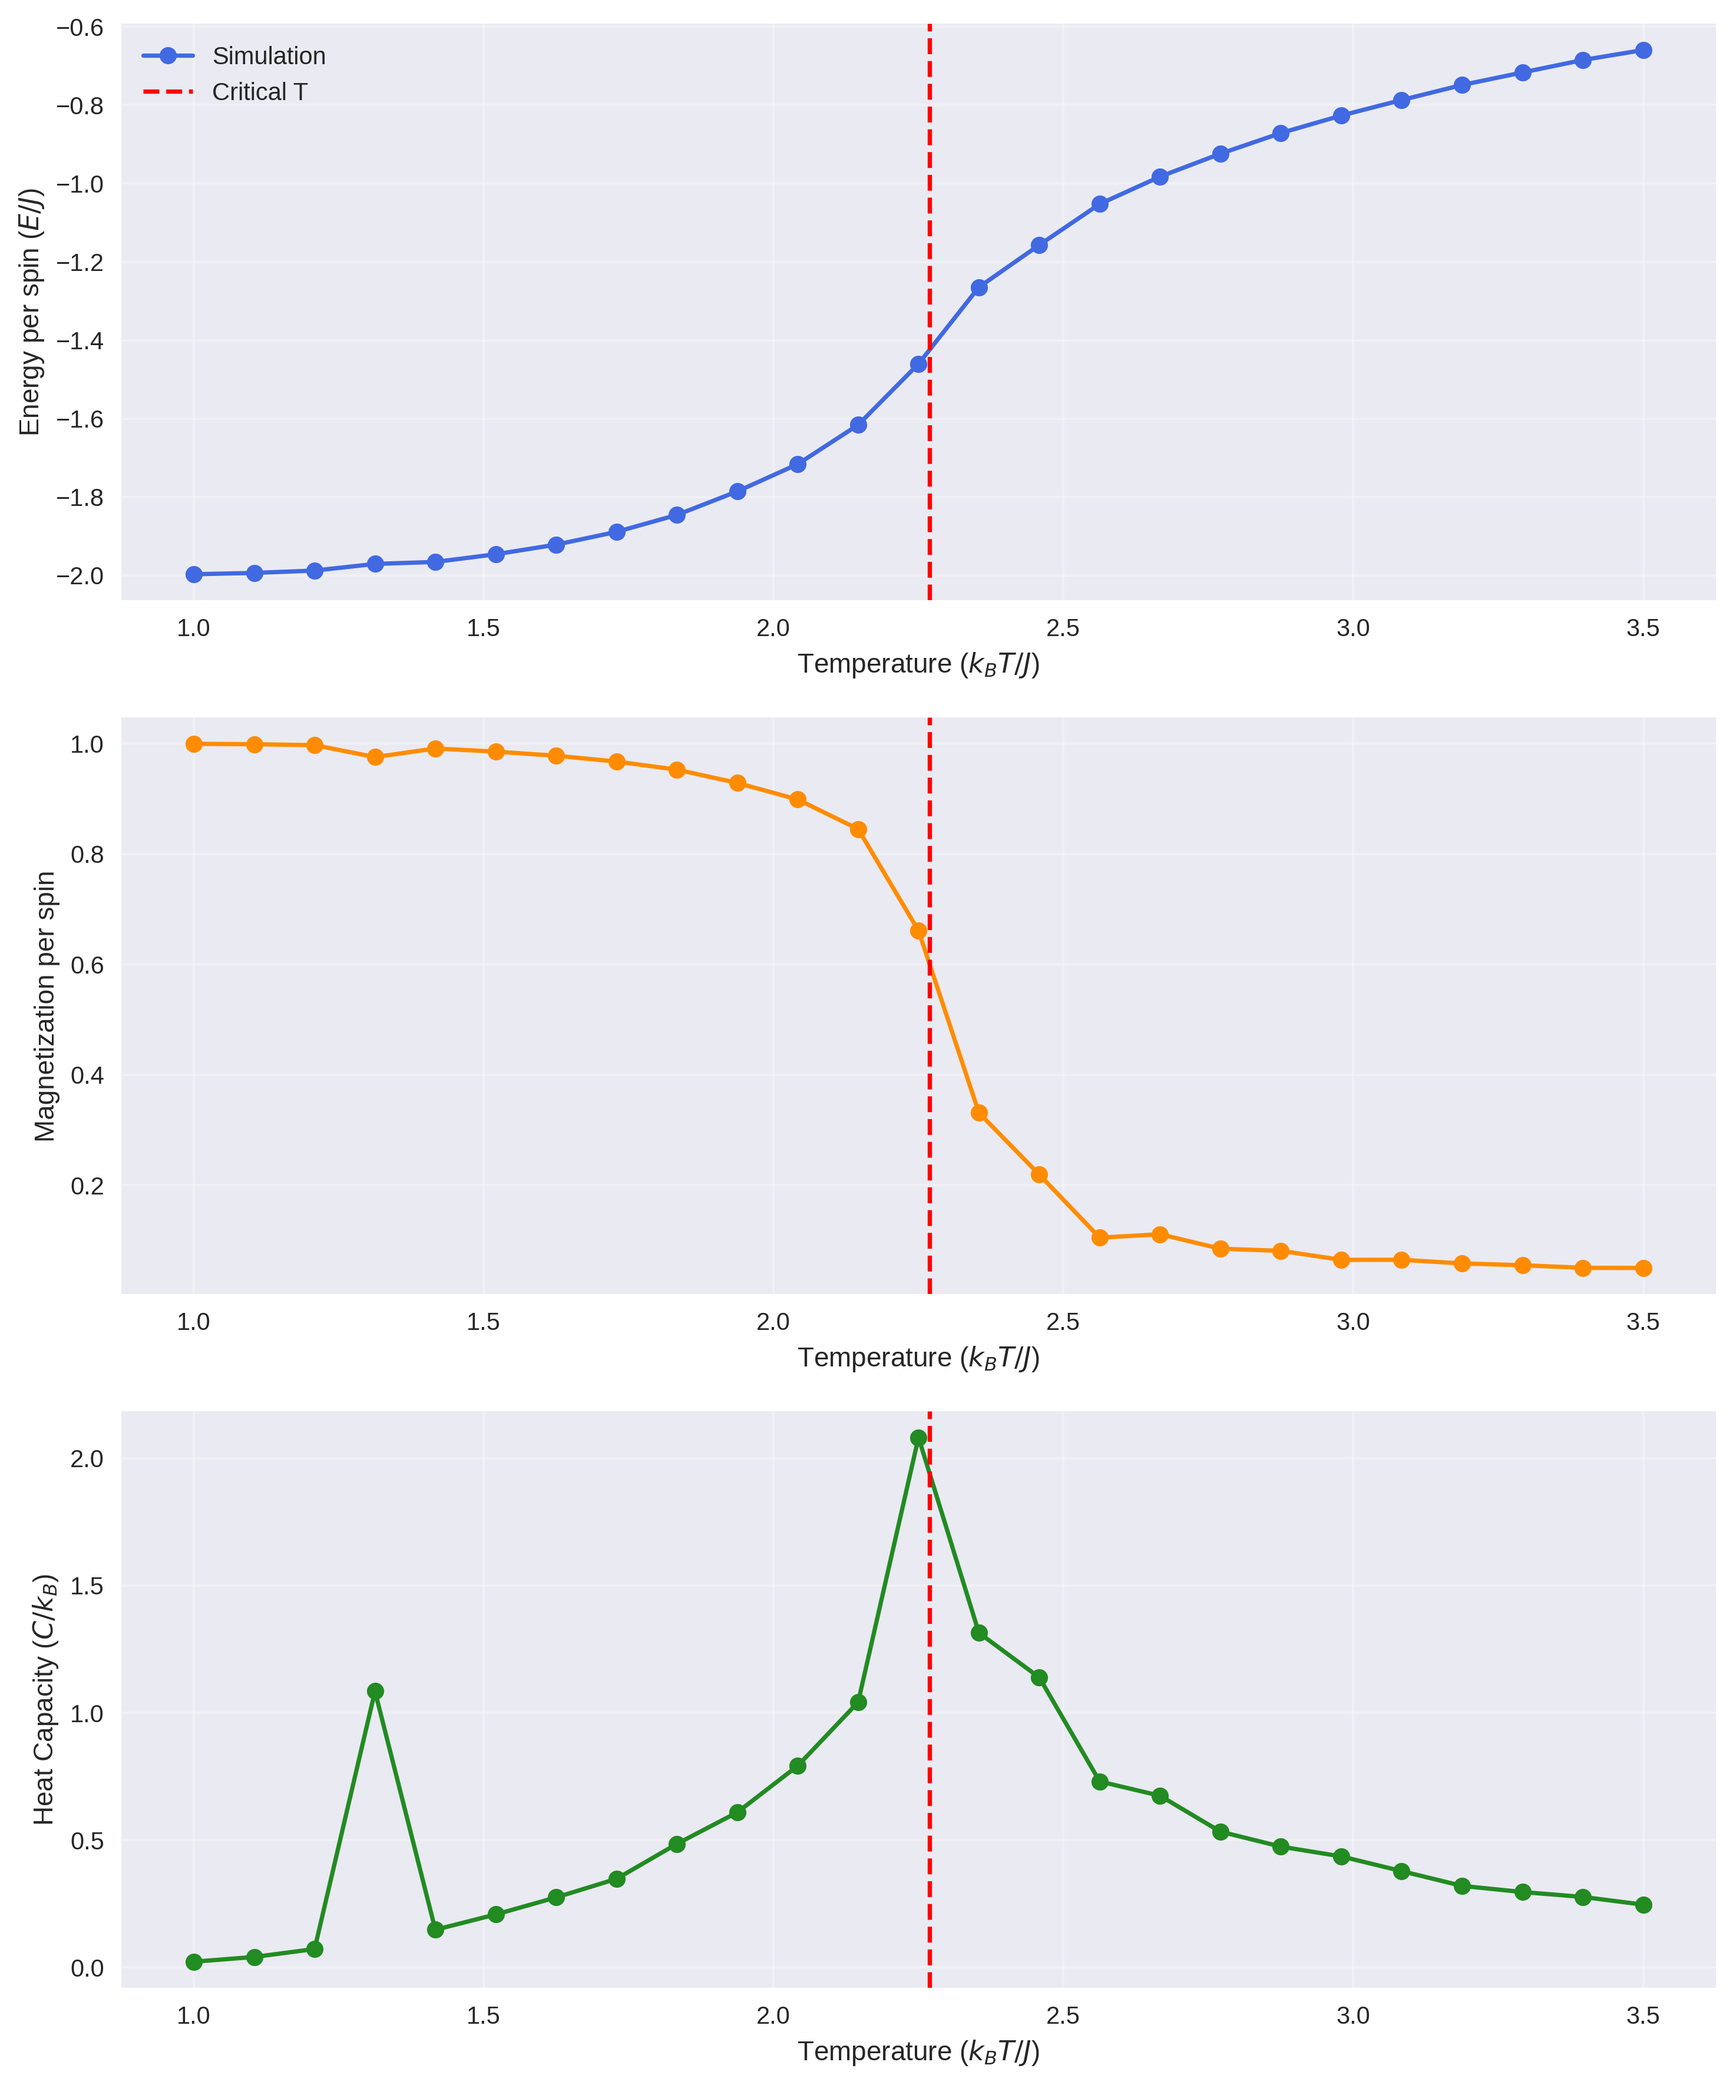
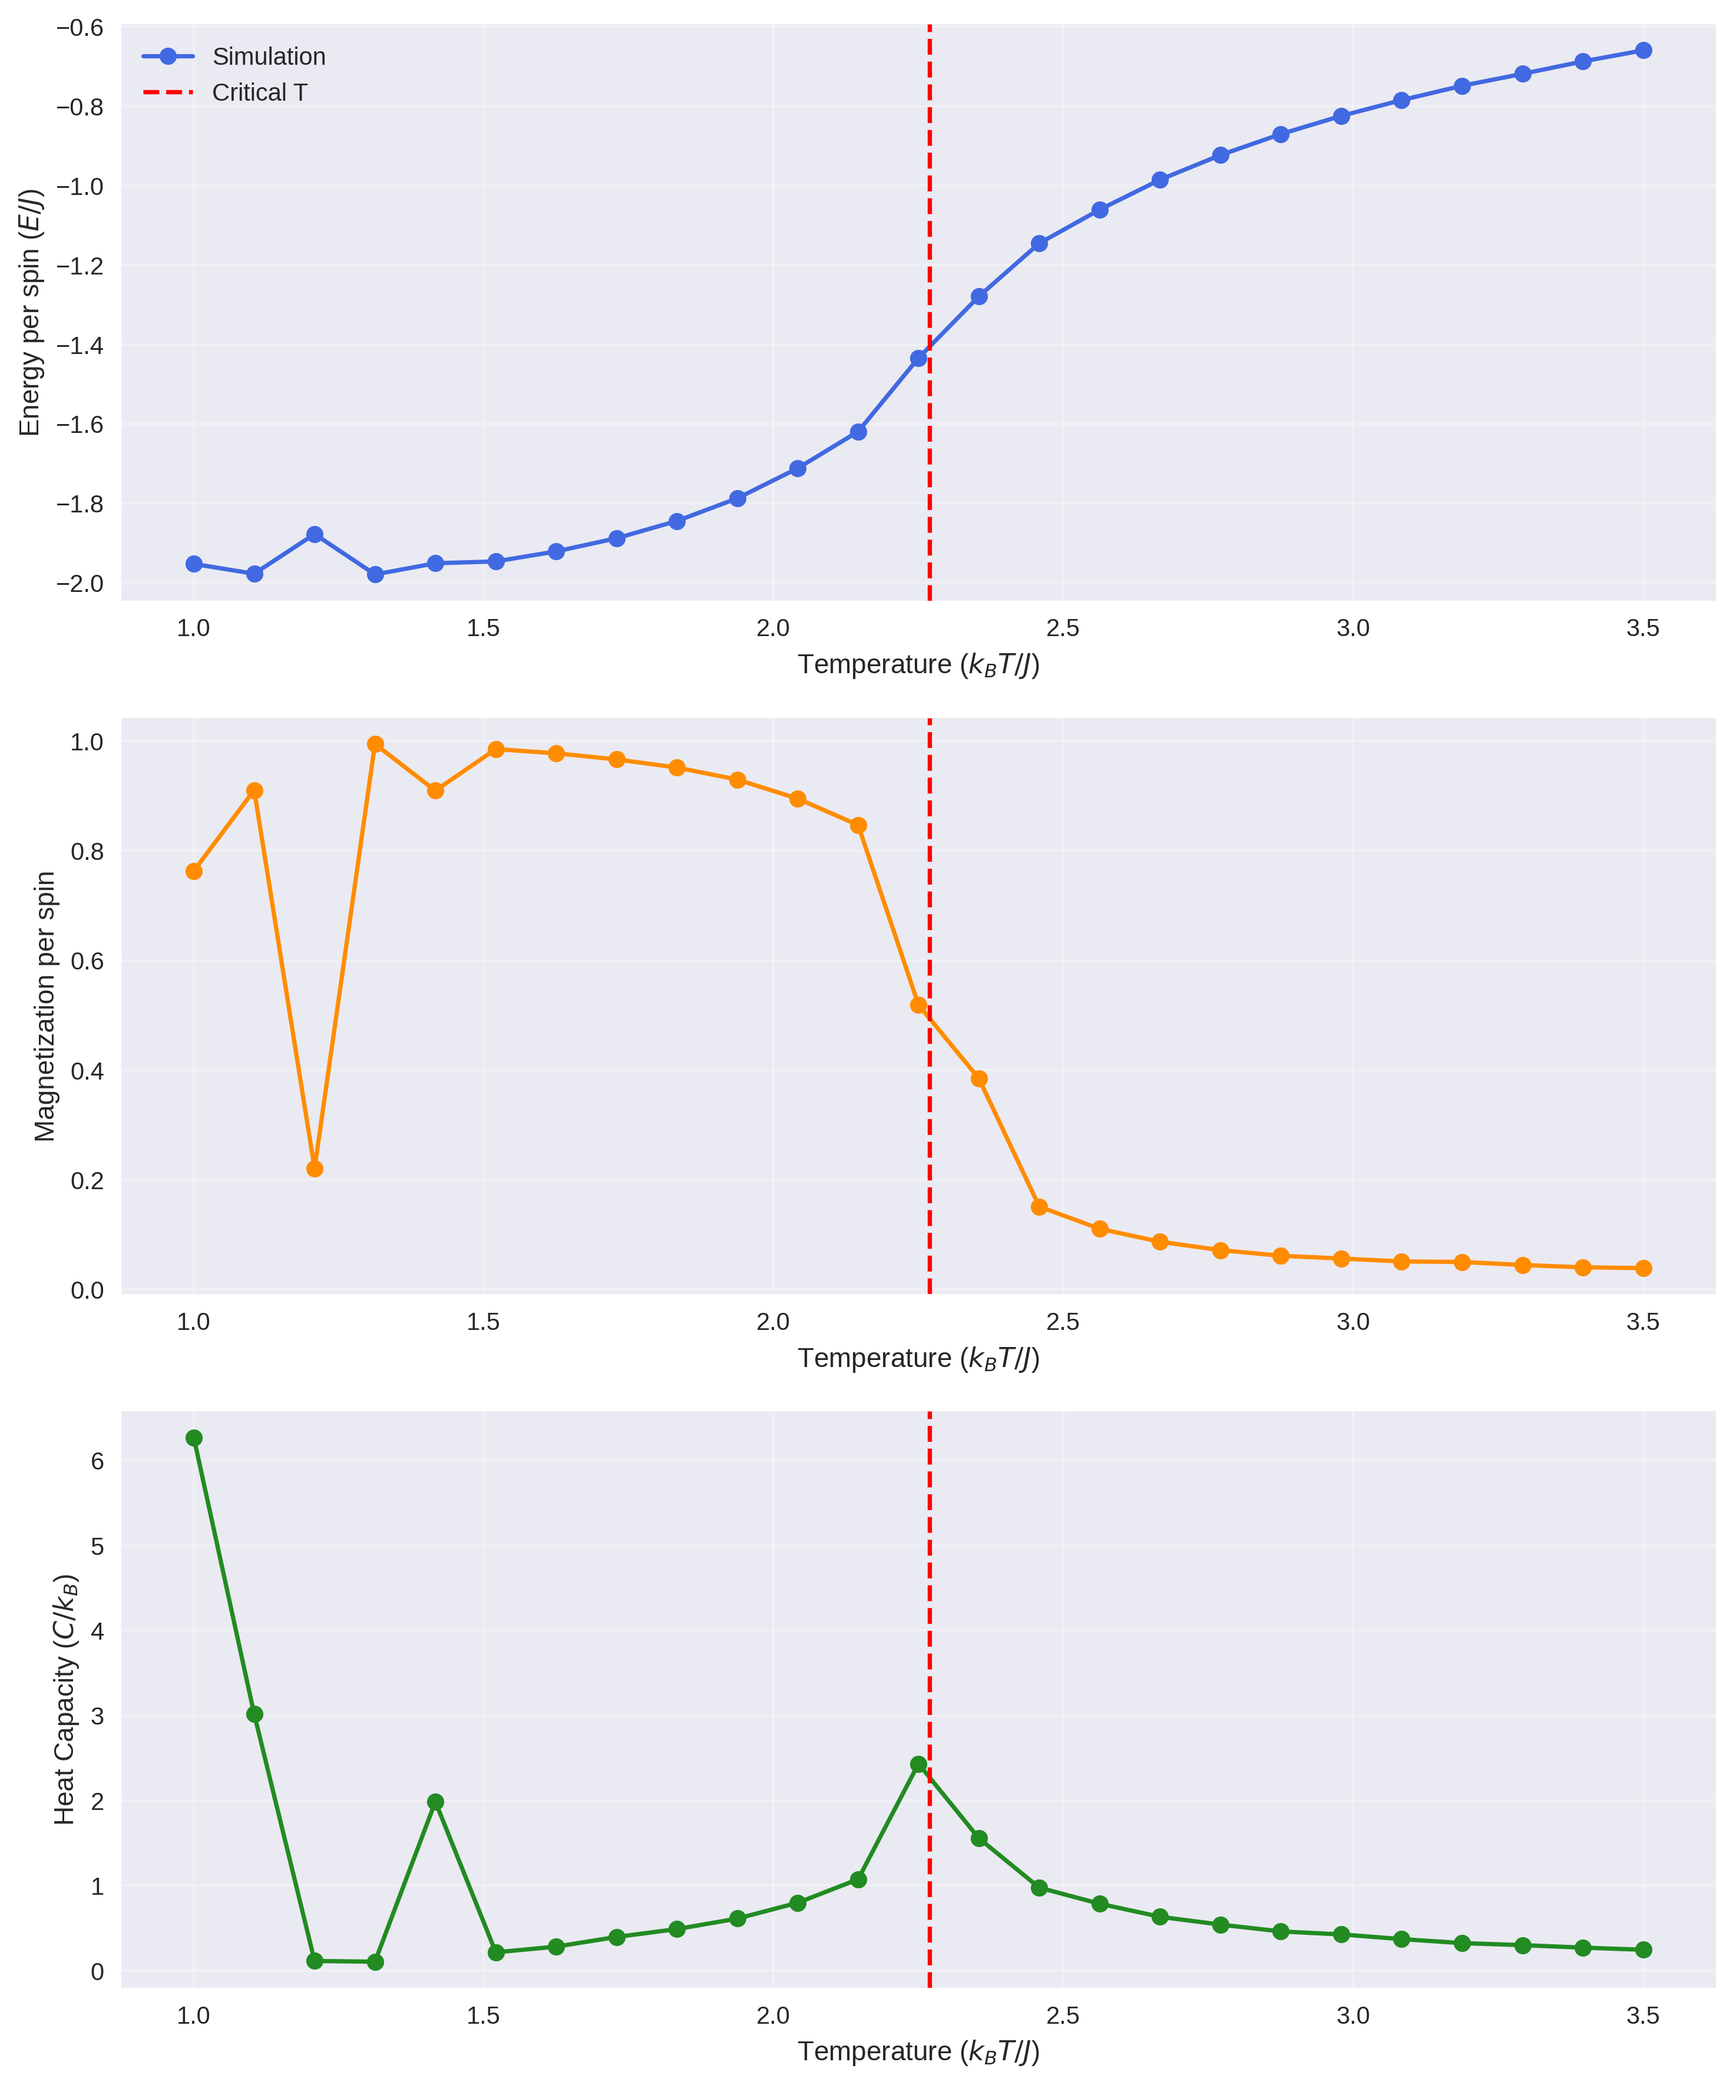
V.1.1

diff --git a/Ising_Model.py b/Ising_Model.py
@@ -24,6 +24,7 @@ class IsingModel2D:
         self.h = h
         # Inicialización aleatoria de espines (+1 o -1)
         self.spins = np.random.choice([-1, 1], size=(L, L)).astype(np.int8)  # int8 para ahorrar memoria
+        self.initial_spins = self.spins.copy()
         self.temperature = None
 
     @staticmethod
@@ -56,7 +57,7 @@ class IsingModel2D:
         """Calcula la magnetización promedio por espín."""
         return np.mean(self.spins)
 
-    def simulate(self, temperature, n_steps=5000, eq_steps=1500):
+    def simulate(self, temperature, n_steps=10000, eq_steps=2000):
         """
         Ejecuta la simulación para una temperatura dada.
         
@@ -104,9 +105,12 @@ def simulate_at_temperature(args):
     T, L, n_steps, seed = args
     np.random.seed(seed)  # Semilla única por proceso
     model = IsingModel2D(L=L)
-    return model.simulate(T, n_steps=n_steps)
+    initial_spins = model.spins.copy()  # Guardamos la configuración inicial
+    result = model.simulate(T, n_steps=n_steps)
+    result['initial_spins'] = initial_spins  # Añadimos los espines iniciales al resultado
+    return result
 
-def run_temperature_sweep(L=50, T_min=1.0, T_max=3.5, n_T=20, n_steps=5000):
+def run_temperature_sweep(L=50, T_min=1.0, T_max=3.5, n_T=20, n_steps=10000):
     """
     Barrido de temperaturas en paralelo.
     
@@ -129,6 +133,33 @@ def run_temperature_sweep(L=50, T_min=1.0, T_max=3.5, n_T=20, n_steps=5000):
         ))
     
     return sorted(results, key=lambda x: x['temperature'])
+
+def plot_spin_configurations(initial_spins, final_spins, temperature):
+    """Visualiza las configuraciones inicial y final de los espines."""
+    # Creamos la figura con un diseño manual
+    fig = plt.figure(figsize=(12, 6))
+    
+    # Añadimos los subplots con posiciones manuales
+    ax1 = fig.add_axes([0.05, 0.1, 0.4, 0.8])  # [left, bottom, width, height]
+    ax2 = fig.add_axes([0.5, 0.1, 0.4, 0.8])
+    
+    # Configuración inicial
+    im1 = ax1.imshow(initial_spins, cmap='coolwarm', vmin=-1, vmax=1)
+    ax1.set_title(f'Configuración inicial (T = {temperature:.3f})')
+    ax1.axis('off')
+    
+    # Configuración final
+    im2 = ax2.imshow(final_spins, cmap='coolwarm', vmin=-1, vmax=1)
+    ax2.set_title(f'Configuración final (T = {temperature:.3f})')
+    ax2.axis('off')
+    
+    # Barra de color compartida
+    cax = fig.add_axes([0.92, 0.1, 0.02, 0.8])  # Posición de la barra de color
+    fig.colorbar(im2, cax=cax, label='Spin value')
+    cax.set_yticks([-1, 0, 1])
+    
+    plt.savefig(f'spin_configs_T_{temperature:.3f}.png', dpi=300, bbox_inches='tight')
+    plt.close()
 
 def plot_results(results):
     """Visualización profesional de los resultados."""
@@ -165,14 +196,23 @@ def plot_results(results):
     plt.savefig('ising_results.png', dpi=300, bbox_inches='tight')
     plt.close()
 
+    # Graficar configuraciones de espines para temperaturas seleccionadas
+    for result in results:
+        if result['temperature'] in [min(Ts), 2.0, 2.269, max(Ts)]:  # Temperaturas clave
+            plot_spin_configurations(
+                initial_spins=result['initial_spins'],
+                final_spins=result['final_spins'],
+                temperature=result['temperature']
+            )
+
 if __name__ == "__main__":
     # Parámetros optimizados para buen balance velocidad-calidad
     results = run_temperature_sweep(
-        L=40,              # Tamaño balanceado
+        L=50,              # Tamaño balanceado
         T_min=1.0,         # Rango térmico
         T_max=3.5,
         n_T=25,            # Puntos de temperatura
-        n_steps=5000       # Pasos totales (500 de equilibración)
+        n_steps=10000       # Pasos totales (500 de equilibración)
     )
     
     plot_results(results)
